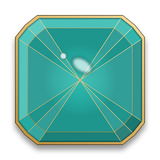
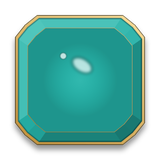
gems: keep the facet fan for real polygons only
On the twelve-sided cushion the fan of lines read as a splash across the stone, not as facets. Only
silhouettes with eight corners or fewer (the hexagon and the emerald cut) get the table and the fan; the
cushion keeps its bevel, its table edge and its spark.

diff --git a/godot-port/tools/make_gem_art.py b/godot-port/tools/make_gem_art.py
@@ -277,9 +277,9 @@ def faceted(spec, points, bevel=0.16):
     # Facet lines from the centre to each point of the star. A cut stone is a table with edges running
     # out to the girdle; without them the star is a shape with a bevel, not a stone.
     facet_draw = ImageDraw.Draw(canvas, "RGBA")
-    if len(points) <= 16:
-        # A cut stone is a table with edges running out to the girdle; a polygon with a table reads as a
-        # gem, a polygon with only a bevel reads as a shape. Every vertex gets a line from the table.
+    if len(points) <= 8:
+        # A cut stone is a table with edges running out to the girdle. Only true polygons get them: on a
+        # twelve-sided cushion the fan of lines reads as a splash, not as facets.
         table = scale_points(points, 0.54)
         facet_draw.line(table + [table[0]], fill=(255, 255, 255, 46), width=max(1, SS // 2))
         for x, y in points:
